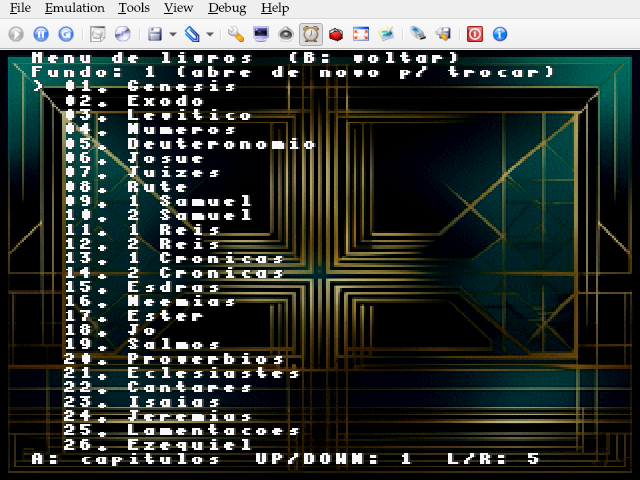
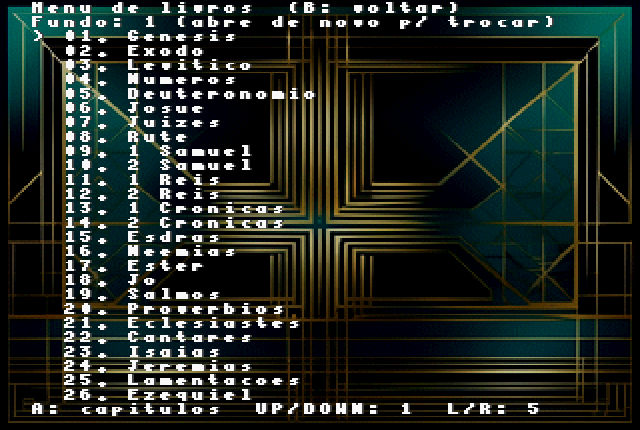
Remove versiculo do README e corta cabecalho dos screenshots

diff --git a/README.md b/README.md
@@ -4,7 +4,7 @@ Projeto com build jogável de Bíblia em português para Sega Saturn.
 
 ## Status
 - Build final pronta em `saturn_app/game.iso` e `saturn_app/game.cue`.
-- Screenshots prontos em `saturn_app/1.png`, `saturn_app/2.png`, `saturn_app/3.png`, `saturn_app/4.png` e `saturn_app/versiculo.png`.
+- Screenshots prontos em `saturn_app/1.png`, `saturn_app/2.png`, `saturn_app/3.png`, `saturn_app/4.png`.
 - Repositório organizado para publicação no GitHub.
 
 ## ROMs finais
@@ -18,7 +18,6 @@ Esses dois arquivos são a release final que deve ficar versionada no repositór
 ![Screenshot 2](saturn_app/2.png)
 ![Screenshot 3](saturn_app/3.png)
 ![Screenshot 4](saturn_app/4.png)
-![Versículo](saturn_app/versiculo.png)
 
 ## Estrutura principal
 - `saturn_app/`: código-fonte da aplicação Saturn e artefatos de build.
